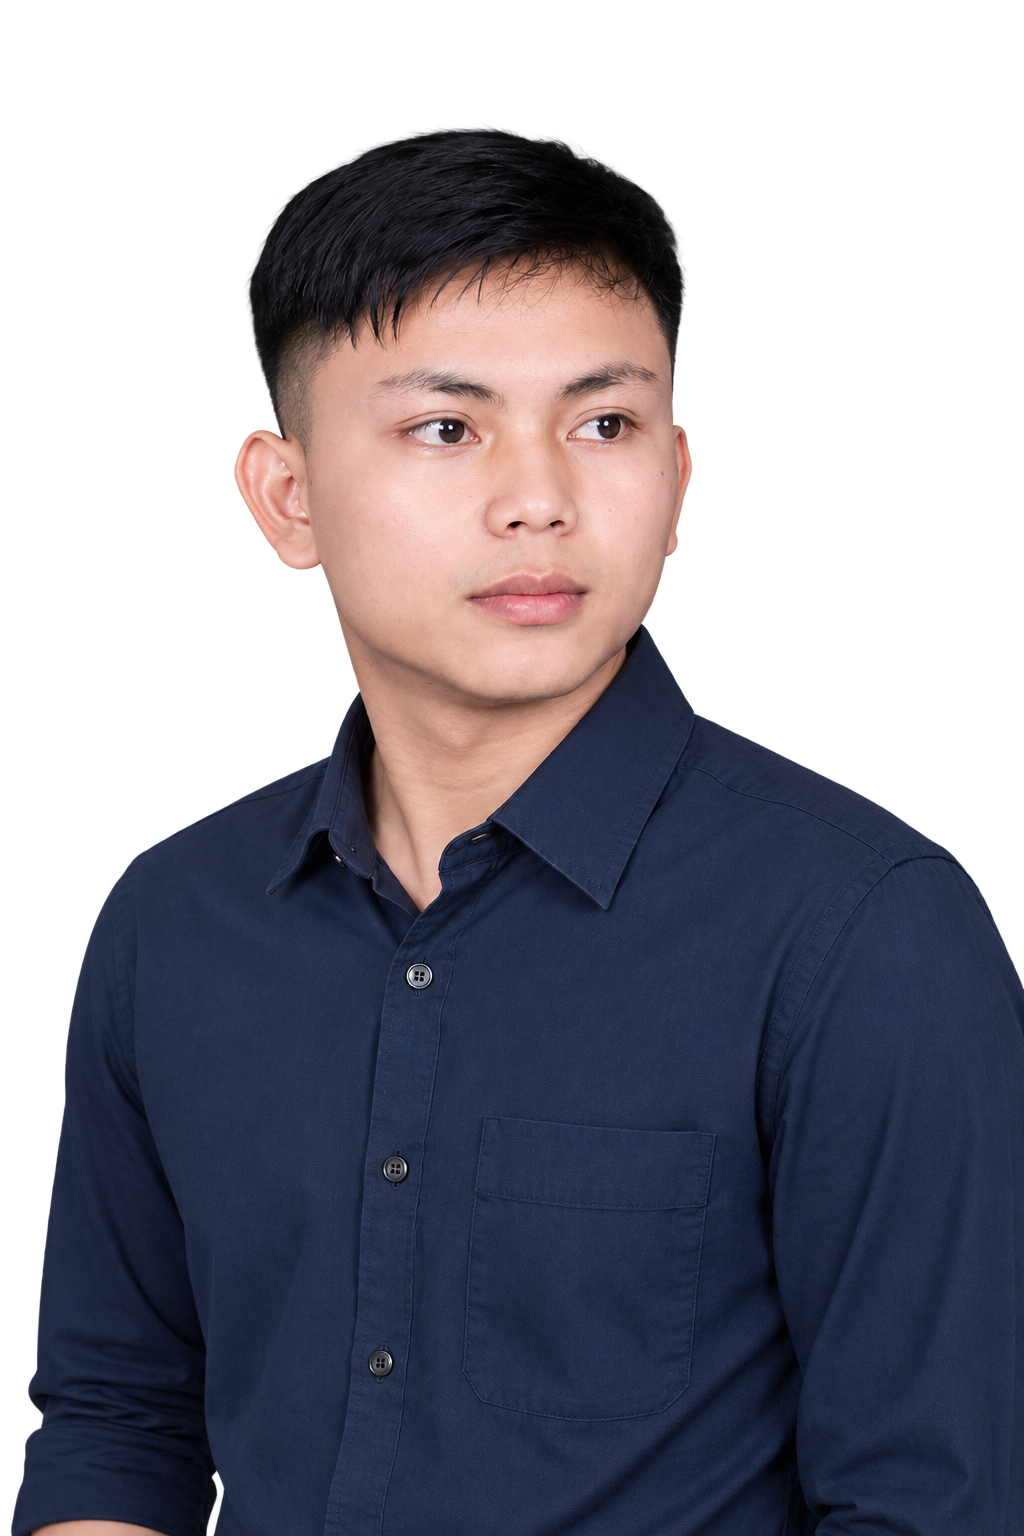
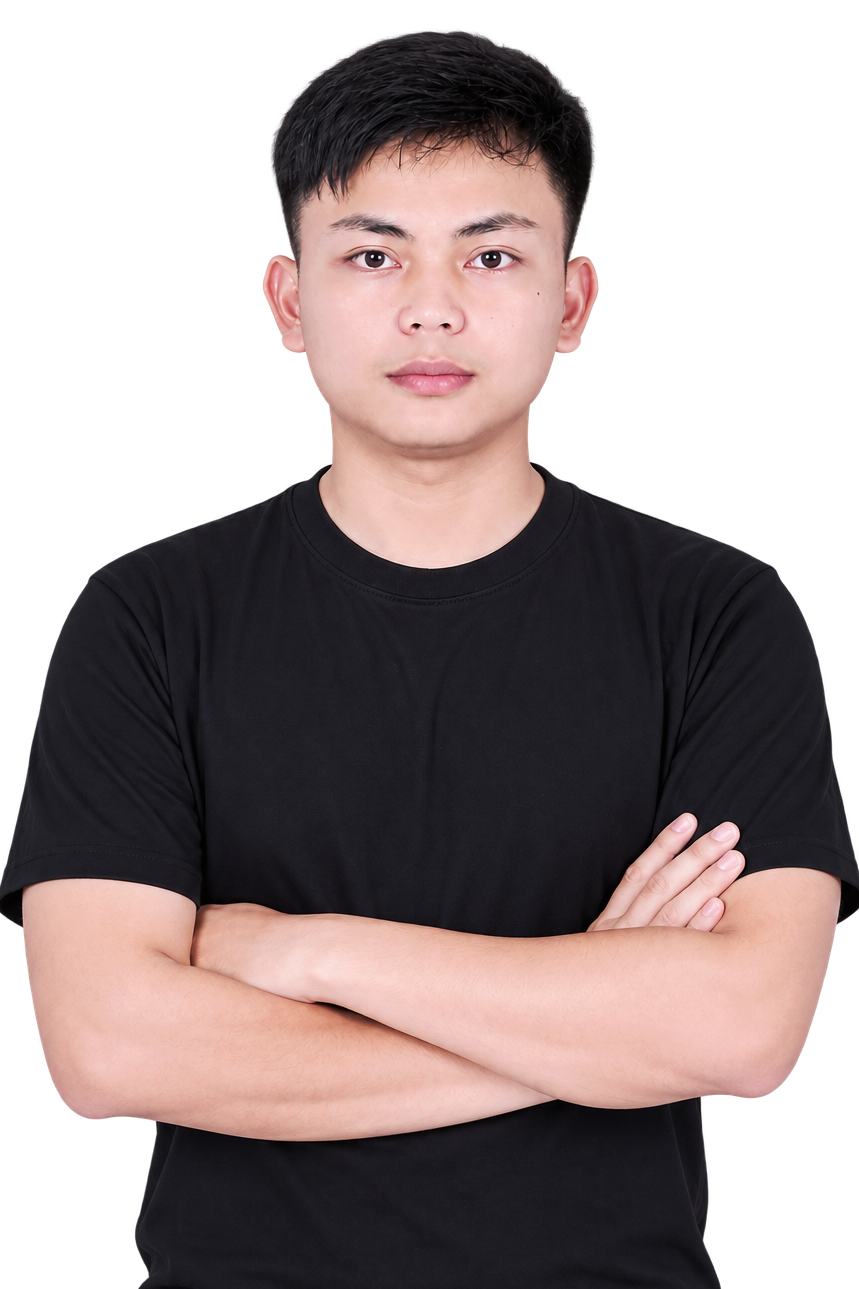
Fix hero portrait image path from .jpg to .png with fallback

diff --git a/components/Hero.jsx b/components/Hero.jsx
@@ -86,7 +86,7 @@ export default function Hero() {
         >
           <div className="relative w-full max-w-[320px] sm:max-w-[380px]">
             <img
-              src="/images/profile.jpg"
+              src="/images/profile.png"
               alt={personalInfo.name}
               className="w-full h-auto object-contain select-none grayscale contrast-[1.08] brightness-[0.98] [mask-image:linear-gradient(to_bottom,black_75%,transparent_100%)]"
             />
